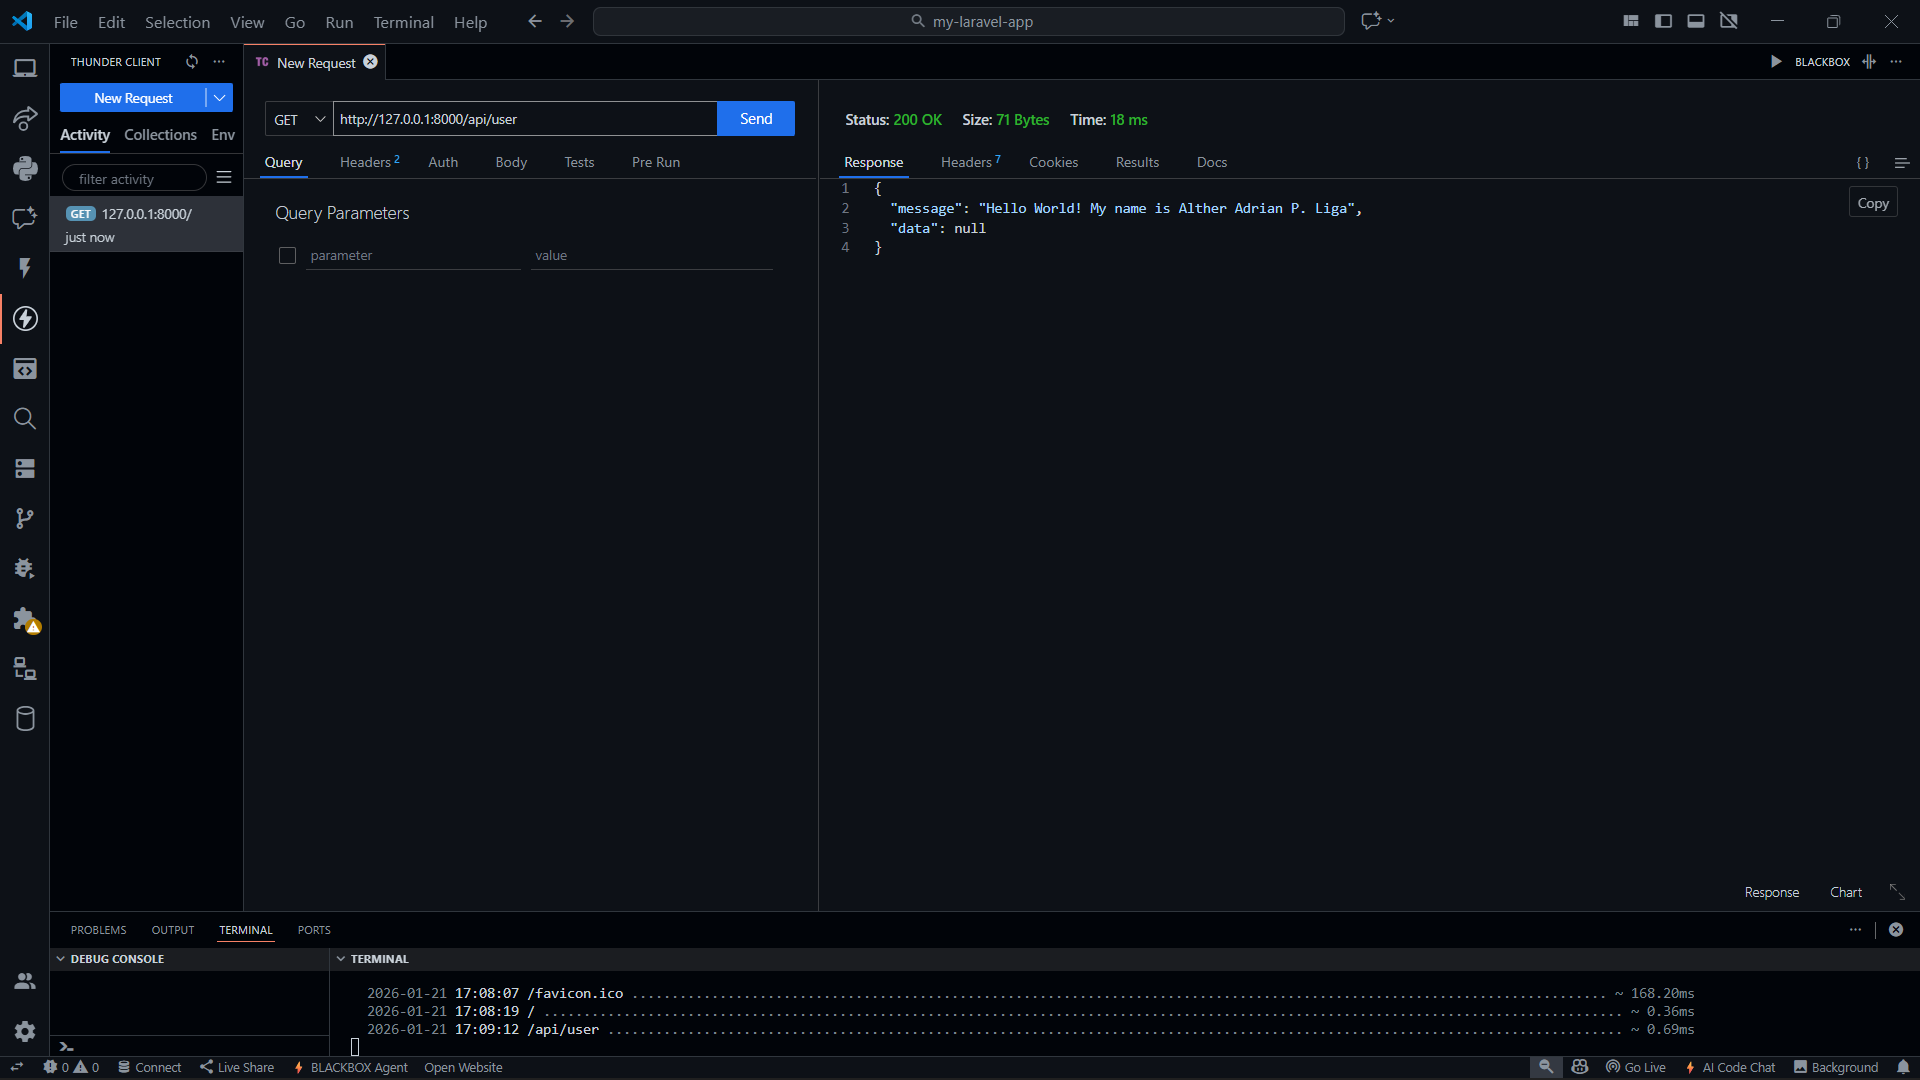
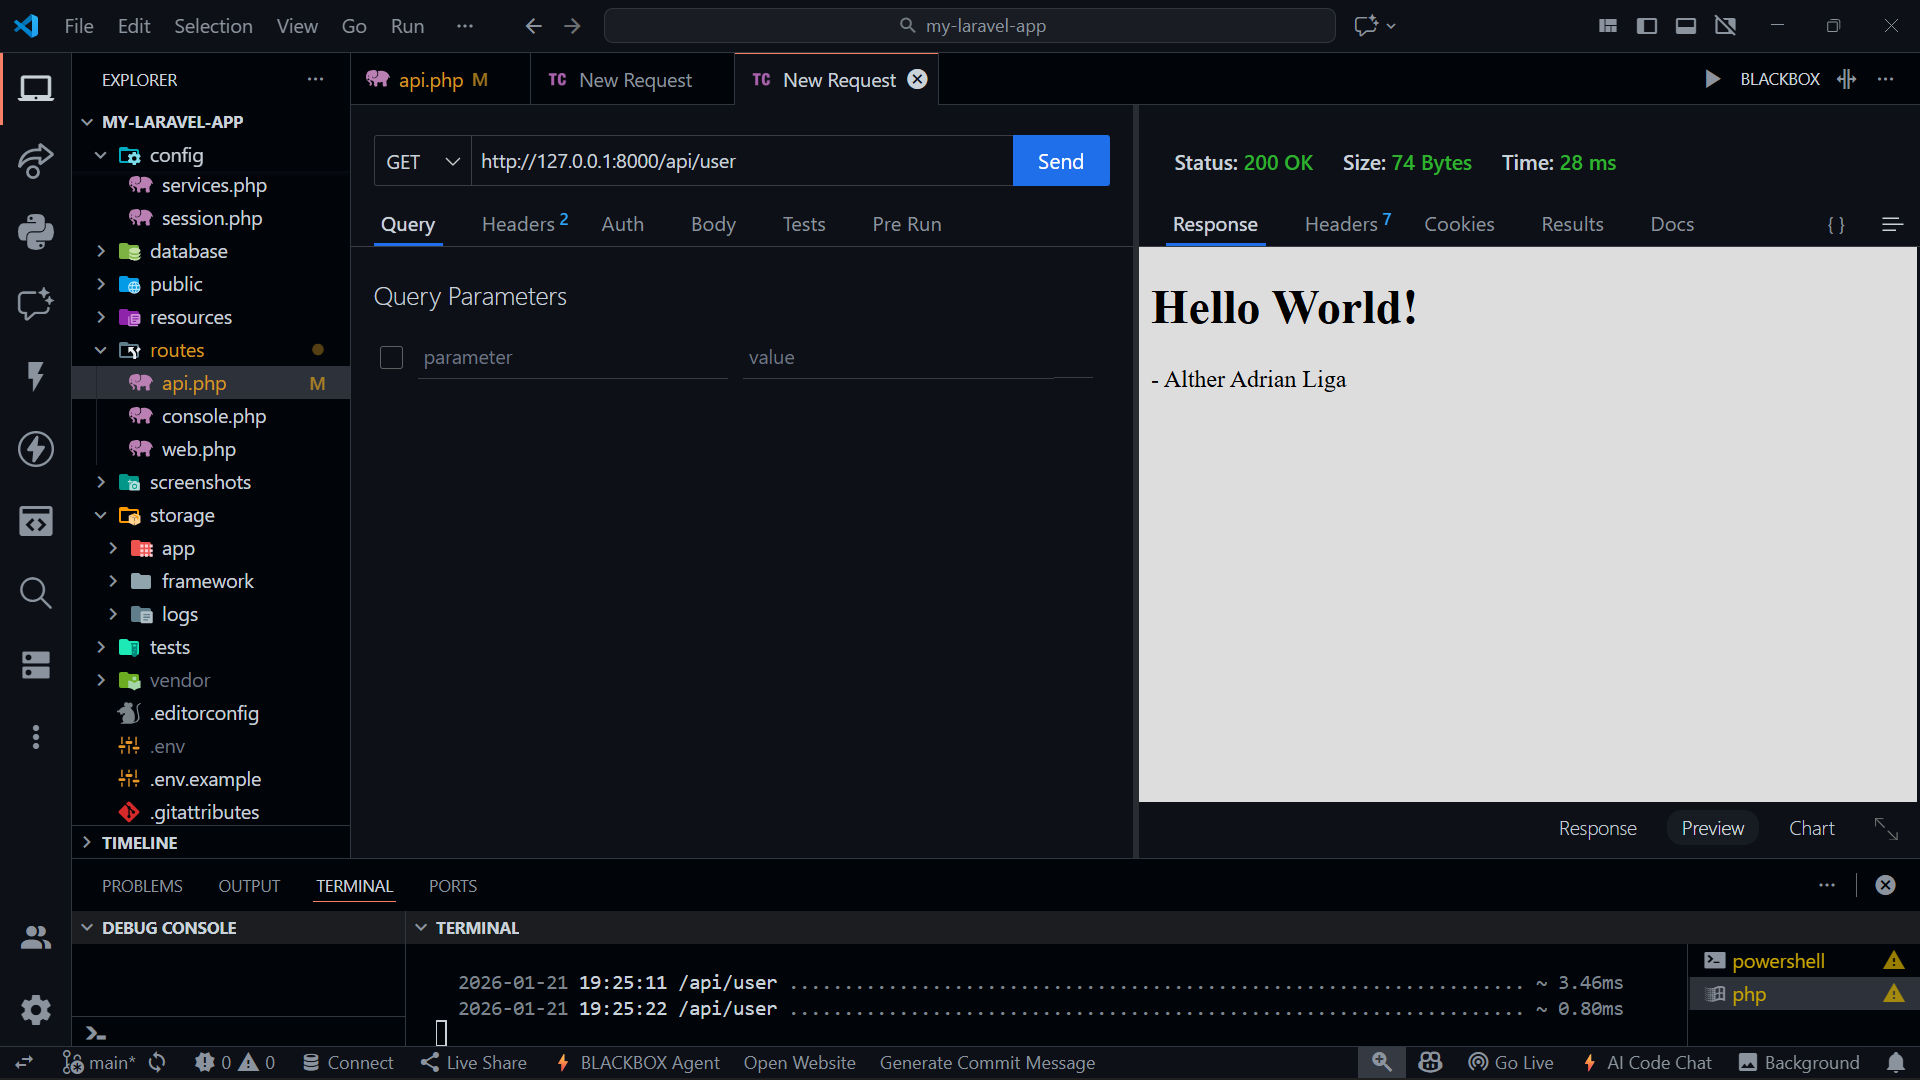
updating the screenshot

diff --git a/routes/api.php b/routes/api.php
@@ -4,9 +4,11 @@ use Illuminate\Http\Request;
 use Illuminate\Support\Facades\Route;
 
 Route::get('/user', function (Request $request) {
-    return response()->json([
-        'message' => 'Hello World! My name is Alther Adrian P. Liga',
-        'data' => $request->user()
-    ]);
+    $user = $request->user();
+    $html = '<html><body>';
+    $html .= '<h1>Hello World!</h1>';
+    $html .= '<p>- ' . ($user ? $user->name : 'Alther Adrian Liga') . '</p>';
+    $html .= '</body></html>';
+    return response($html)->header('Content-Type', 'text/html');
 });
 
